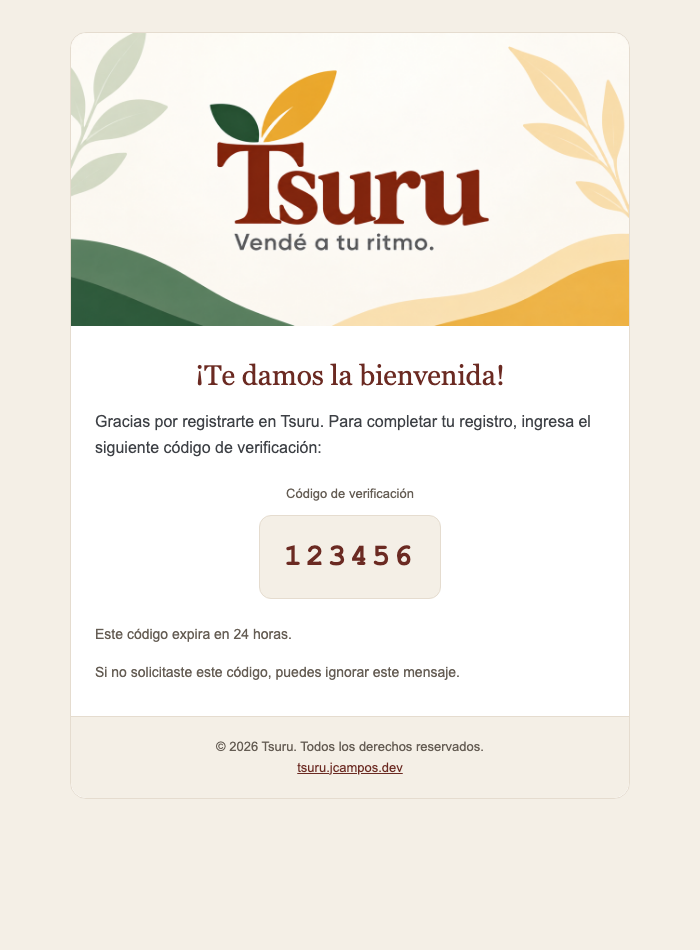
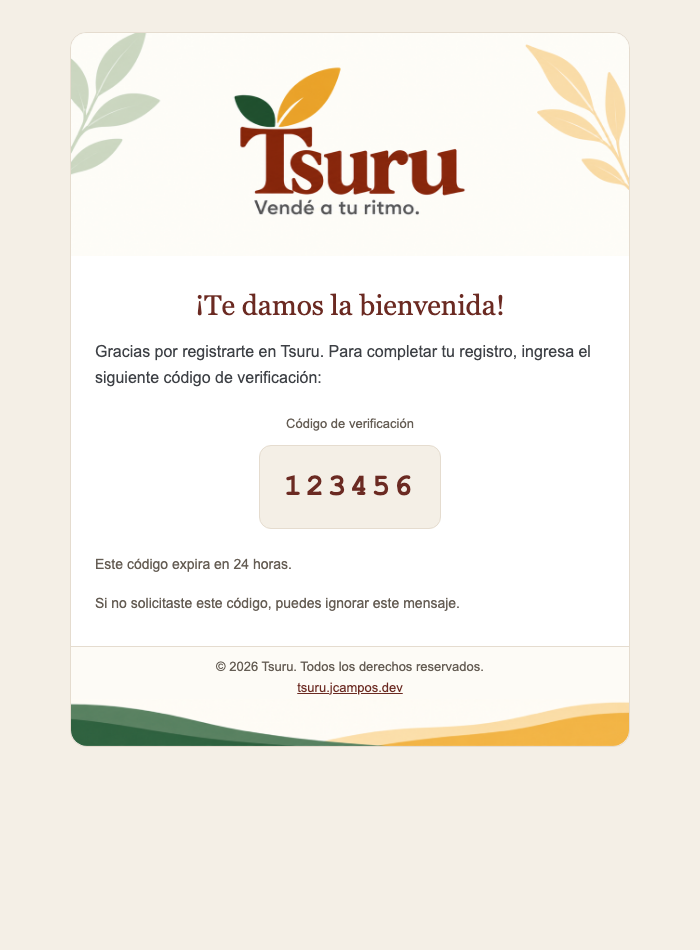
Document approved email theme and verified dev publication

diff --git a/docs/qa/email-branding/verification-dark-preview.html b/docs/qa/email-branding/verification-dark-preview.html
@@ -1,0 +1,43 @@
+<!DOCTYPE html>
+<html lang="es">
+<head>
+  <meta charset="utf-8" />
+  <meta name="viewport" content="width=device-width,initial-scale=1" />
+  <meta name="color-scheme" content="light" />
+  <meta name="supported-color-schemes" content="light" />
+  <title>Dark preview — Tsuru — ¡Te damos la bienvenida!</title>
+</head>
+<body style="margin:0;padding:0;background-color:#151B17;font-family:Arial,Helvetica,sans-serif;color:#EEE9DE;-webkit-text-size-adjust:100%;">
+  <table role="presentation" width="100%" cellpadding="0" cellspacing="0" border="0" bgcolor="#151B17" style="background-color:#151B17;">
+    <tr><td align="center" style="padding:32px 16px;">
+      <!--[if mso]><table role="presentation" width="560" align="center"><tr><td><![endif]-->
+      <table role="presentation" width="100%" cellpadding="0" cellspacing="0" border="0" align="center" bgcolor="#202621" style="width:100%;max-width:560px;background-color:#202621;border:1px solid #465047;border-radius:16px;">
+        <tr><td align="center" bgcolor="#151B17" style="padding:0;background-color:#151B17;border-radius:16px 16px 0 0;">
+          <a href="https://tsuru.jcampos.dev" style="text-decoration:none;color:#F4EFE6;"><img src="../../brand/email-previews/email-header-dark.png" width="560" height="224" alt="Tsuru — Vendé a tu ritmo." style="display:block;width:100%;max-width:560px;height:auto;margin:0 auto;border:0;border-radius:16px 16px 0 0;color:#F4EFE6;font-size:20px;" /></a>
+        </td></tr>
+        <tr><td align="center" style="padding:32px 24px 16px;text-align:center;">
+          <h1 style="margin:0;font-family:Georgia,'Times New Roman',serif;font-size:28px;font-weight:normal;line-height:1.25;color:#F4EFE6;">¡Te damos la bienvenida!</h1>
+        </td></tr>
+        <tr><td style="padding:0 24px 32px;font-size:16px;line-height:1.6;color:#EEE9DE;"><p style="margin:0 0 16px;">Gracias por registrarte en Tsuru. Para completar tu registro, ingresa el siguiente código de verificación:</p><table role="presentation" width="100%" cellpadding="0" cellspacing="0" border="0" style="margin:24px 0;">
+  <tr><td align="center" style="text-align:center;">
+    <p style="margin:0 0 10px;font-size:13px;color:#C3C5B8;">Código de verificación</p>
+    <table role="presentation" align="center" cellpadding="0" cellspacing="0" border="0" style="margin:0 auto;max-width:100%;">
+      <tr><td align="center" bgcolor="#151B17" style="padding:20px 24px;background-color:#151B17;border:1px solid #465047;border-radius:12px;text-align:center;">
+        <span style="font-family:'Courier New',monospace;font-size:30px;line-height:1.4;font-weight:bold;color:#F4EFE6;letter-spacing:4px;overflow-wrap:anywhere;word-break:break-word;">123456</span>
+      </td></tr>
+    </table>
+  </td></tr>
+</table><p style="margin:16px 0 0;font-size:14px;line-height:1.6;color:#C3C5B8;">Este código expira en 24 horas.</p><p style="margin:16px 0 0;font-size:14px;line-height:1.6;color:#C3C5B8;">Si no solicitaste este código, puedes ignorar este mensaje.</p></td></tr>
+        <tr><td align="center" bgcolor="#202621" style="padding:10px 24px 0;background-color:#202621;border-top:1px solid #465047;text-align:center;">
+          <p style="margin:0;font-size:13px;line-height:1.6;color:#C3C5B8;">© 2026 Tsuru. Todos los derechos reservados.</p>
+          <a href="https://tsuru.jcampos.dev" style="font-size:13px;line-height:1.6;color:#F4EFE6;text-decoration:underline;">tsuru.jcampos.dev</a>
+        </td></tr>
+        <tr><td align="center" style="padding:0;font-size:0;line-height:0;border-radius:0 0 16px 16px;">
+          <img src="../../brand/email-previews/email-footer-waves-dark.png" width="560" height="48" alt="" role="presentation" style="display:block;width:100%;max-width:560px;height:auto;border:0;border-radius:0 0 16px 16px;" />
+        </td></tr>
+      </table>
+      <!--[if mso]></td></tr></table><![endif]-->
+    </td></tr>
+  </table>
+</body>
+</html>

diff --git a/docs/brand/email-theme.css b/docs/brand/email-theme.css
@@ -1,0 +1,37 @@
+:root { color-scheme: light dark; supported-color-schemes: light dark; }
+@media (prefers-color-scheme: dark) {
+  .ts-bg-outer { background-color: #151B17 !important; }
+  .ts-bg-surface { background-color: #202621 !important; }
+  .ts-bg-footer { background-color: #202621 !important; }
+  .ts-bg-danger { background-color: #402723 !important; }
+  .ts-bg-success { background-color: #213B2B !important; }
+  .ts-bg-warning { background-color: #40351F !important; }
+  .ts-bg-info { background-color: #26343C !important; }
+  .ts-fg { color: #EEE9DE !important; }
+  .ts-primary { color: #F4EFE6 !important; }
+  .ts-muted { color: #C3C5B8 !important; }
+  .ts-danger { color: #FFB4A9 !important; }
+  .ts-success { color: #A2D7AE !important; }
+  .ts-warning { color: #F0CE83 !important; }
+  .ts-info { color: #BFCDD7 !important; }
+  .ts-border { border-color: #465047 !important; }
+  .ts-art-light { display: none !important; max-height: 0 !important; overflow: hidden !important; }
+  .ts-art-dark { display: block !important; max-height: none !important; overflow: hidden !important; height: auto !important; }
+}
+[data-ogsc] .ts-bg-outer { background-color: #151B17 !important; }
+[data-ogsc] .ts-bg-surface { background-color: #202621 !important; }
+[data-ogsc] .ts-bg-footer { background-color: #202621 !important; }
+[data-ogsc] .ts-bg-danger { background-color: #402723 !important; }
+[data-ogsc] .ts-bg-success { background-color: #213B2B !important; }
+[data-ogsc] .ts-bg-warning { background-color: #40351F !important; }
+[data-ogsc] .ts-bg-info { background-color: #26343C !important; }
+[data-ogsc] .ts-fg { color: #EEE9DE !important; }
+[data-ogsc] .ts-primary { color: #F4EFE6 !important; }
+[data-ogsc] .ts-muted { color: #C3C5B8 !important; }
+[data-ogsc] .ts-danger { color: #FFB4A9 !important; }
+[data-ogsc] .ts-success { color: #A2D7AE !important; }
+[data-ogsc] .ts-warning { color: #F0CE83 !important; }
+[data-ogsc] .ts-info { color: #BFCDD7 !important; }
+[data-ogsc] .ts-border { border-color: #465047 !important; }
+[data-ogsc] .ts-art-light { display: none !important; max-height: 0 !important; overflow: hidden !important; }
+[data-ogsc] .ts-art-dark { display: block !important; max-height: none !important; overflow: hidden !important; height: auto !important; }

diff --git a/scripts/sync-email-theme.py b/scripts/sync-email-theme.py
@@ -1,0 +1,132 @@
+#!/usr/bin/env python3
+"""Sync the shared email theme into independently deployed services and SES HTML."""
+from pathlib import Path
+import json
+
+ROOT = Path(__file__).resolve().parents[1]
+css = (ROOT / 'docs/brand/email-theme.css').read_text()
+rules = json.loads((ROOT / 'docs/brand/email-theme.json').read_text())
+python_source = '''"""Generated by scripts/sync-email-theme.py; keep light-mode inline fallbacks."""
+import re
+
+CSS = __CSS__
+RULES = __RULES__
+ARTWORK = {
+    'email-header.png': 'email-header-dark.png',
+    'email-footer-waves-compact.png': 'email-footer-waves-dark.png',
+}
+
+
+def _classes(tag):
+    style = re.search(r'\\bstyle="([^"]*)"', tag, re.I)
+    if not style:
+        return tag
+    declarations = dict((key.strip().lower(), value.strip().lower())
+                        for key, value in re.findall(r'([\\w-]+)\\s*:\\s*([^;]+)', style.group(1)))
+    classes = []
+    for prop, values in RULES.items():
+        value = declarations.get(prop)
+        if value in values:
+            classes.append(values[value][0])
+    if any(key.startswith('border') and ('#e5dccf' in value or '#f4efe6' in value)
+           for key, value in declarations.items()):
+        classes.append('ts-border')
+    if not classes:
+        return tag
+    existing = re.search(r'\\bclass="([^"]*)"', tag, re.I)
+    if existing:
+        merged = list(dict.fromkeys(existing.group(1).split() + classes))
+        return tag[:existing.start(1)] + ' '.join(merged) + tag[existing.end(1):]
+    return re.sub(r'^(<[^\\s>]+)', lambda m: m.group(1) + ' class="' + ' '.join(classes) + '"', tag)
+
+
+def _artwork(tag):
+    if not re.match(r'<img\\b', tag, re.I):
+        return tag
+    for light, dark in ARTWORK.items():
+        if '/' + light not in tag:
+            continue
+        light_tag = re.sub(r'\\bclass="([^"]*)"', lambda m: 'class="' + m.group(1) + ' ts-art-light"', tag) if re.search(r'\\bclass="', tag) else tag.replace('<img', '<img class="ts-art-light"', 1)
+        dark_tag = tag.replace('/' + light, '/' + dark)
+        dark_tag = re.sub(r'\\bclass="([^"]*)"', lambda m: 'class="' + m.group(1) + ' ts-art-dark"', dark_tag) if re.search(r'\\bclass="', dark_tag) else dark_tag.replace('<img', '<img class="ts-art-dark"', 1)
+        dark_tag = dark_tag.replace('display:block;', 'display:none;').replace('display: block;', 'display:none;')
+        dark_tag = dark_tag.replace('style="', 'style="max-height:0;overflow:hidden;mso-hide:all;', 1)
+        return light_tag + dark_tag
+    return tag
+
+
+def apply_email_theme(html):
+    """Add progressive dark-mode support; content and light inline styles stay intact."""
+    if 'id="tsuru-email-theme"' in html:
+        return html
+    html = re.sub(r'(<meta\\s+name="(?:color-scheme|supported-color-schemes)"\\s+content=")light("\\s*/?>)',
+                  r'\\1light dark\\2', html, flags=re.I)
+    html = re.sub(r'<[a-z][^>]*>', lambda m: _artwork(_classes(m.group(0))), html, flags=re.I)
+    return html.replace('</head>', '<style id="tsuru-email-theme">\\n' + CSS + '</style>\\n</head>', 1)
+'''.replace('__CSS__', repr(css)).replace('__RULES__', repr(rules))
+for dest in ['be/sales-be/shared/jbiller_common/hacienda/templates/email_theme.py',
+             'be/store-be/app/services/email_theme.py']:
+    (ROOT / dest).write_text(python_source)
+
+ts_source = '''// Generated by scripts/sync-email-theme.py; keep light-mode inline fallbacks.
+const CSS = __CSS__;
+const RULES: Record<string, Record<string, [string, string]>> = __RULES__;
+const ARTWORK: Record<string, string> = {
+  'email-header.png': 'email-header-dark.png',
+  'email-footer-waves-compact.png': 'email-footer-waves-dark.png',
+};
+
+function themeTag(tag: string): string {
+  const style = tag.match(/\\bstyle="([^"]*)"/i)?.[1];
+  const classes: string[] = [];
+  if (style) {
+    const declarations: Record<string, string> = {};
+    for (const match of Array.from(style.matchAll(/([\\w-]+)\\s*:\\s*([^;]+)/g))) {
+      declarations[match[1].trim().toLowerCase()] = match[2].trim().toLowerCase();
+    }
+    for (const [prop, values] of Object.entries(RULES)) {
+      const rule = values[declarations[prop]];
+      if (rule) classes.push(rule[0]);
+    }
+    if (Object.entries(declarations).some(([key, value]) => key.startsWith('border') && /#e5dccf|#f4efe6/.test(value))) classes.push('ts-border');
+    if (classes.length) {
+      if (/\\bclass="/i.test(tag)) tag = tag.replace(/\\bclass="([^"]*)"/i, (_, value: string) => `class="${Array.from(new Set([...value.split(/\\s+/), ...classes])).join(' ')}"`);
+      else tag = tag.replace(/^(<[^\\s>]+)/, `$1 class="${classes.join(' ')}"`);
+    }
+  }
+  if (!/^<img\\b/i.test(tag)) return tag;
+  for (const [light, dark] of Object.entries(ARTWORK)) {
+    if (!tag.includes('/' + light)) continue;
+    const addClass = (image: string, name: string): string => /\\bclass="/i.test(image)
+      ? image.replace(/\\bclass="([^"]*)"/i, (_, value: string) => `class="${value} ${name}"`)
+      : image.replace(/^(<img)/i, `$1 class="${name}"`);
+    const lightTag = addClass(tag, 'ts-art-light');
+    const darkTag = addClass(tag.replace('/' + light, '/' + dark), 'ts-art-dark')
+      .replace(/display:\\s*block;/, 'display:none;')
+      .replace('style="', 'style="max-height:0;overflow:hidden;mso-hide:all;');
+    return lightTag + darkTag;
+  }
+  return tag;
+}
+
+export function applyEmailTheme(html: string): string {
+  if (html.includes('id="tsuru-email-theme"')) return html;
+  return html.replace(/(<meta\\s+name="(?:color-scheme|supported-color-schemes)"\\s+content=")light("\\s*\\/?>)/gi, '$1light dark$2')
+    .replace(/<[a-z][^>]*>/gi, match => themeTag(match))
+    .replace('</head>', `<style id="tsuru-email-theme">\\n${CSS}</style>\\n</head>`);
+}
+'''.replace('__CSS__', json.dumps(css)).replace('__RULES__', json.dumps(rules))
+(ROOT / 'be/management-be/src/templates/emailTheme.ts').write_text(ts_source)
+
+# Rebuild static Cognito HTML from its light fallback, so regeneration is idempotent.
+namespace = {}
+exec(compile(python_source, '<email_theme>', 'exec'), namespace)
+import re
+for path in (ROOT / 'be/cognito-templates/ses/templates').glob('*.html'):
+    html = path.read_text()
+    html = re.sub(r'<style id="tsuru-email-theme">.*?</style>\s*', '', html, flags=re.S)
+    html = re.sub(r'<img[^>]*class="[^"]*ts-art-dark[^"]*"[^>]*>', '', html)
+    html = re.sub(r' class="ts-[^"]*"', '', html)
+    html = html.replace('content="light dark"', 'content="light"')
+    path.write_text(namespace['apply_email_theme'](html))
+print('Synchronized light/dark styles, artwork switching and Cognito templates')

diff --git a/docs/brand/tsuru-email-artwork-2026-10-07.md b/docs/brand/tsuru-email-artwork-2026-10-07.md
@@ -1,0 +1,41 @@
+# Tsuru email artwork
+
+The email layout uses two dedicated assets, while the landing Open Graph social card remains unchanged.
+
+- Header: `fe/landing/public/brand/email-header.png` (1200×480), Tsuru logo, current slogan aligned beneath the T, and botanical corner leaves. No waves.
+- Footer: `fe/landing/public/brand/email-footer-waves-compact.png` (1200×102), decorative green and gold waves only, with empty alternative text in emails.
+- Used by all localized Cognito emails, management account/invitation emails, invoice notification emails, and delivery reports.
+- Images use responsive widths and explicit dimensions inside presentation tables. Verification code alignment is retained.
+
+## Artwork provenance
+
+Edited from `fe/landing/public/brand/social-card.png` using the built-in image generation tool. Final exports were resized for their email slots.
+
+Header prompt: Edit the provided Tsuru social card into an email header. Preserve the exact Tsuru wordmark, its leaves and “Vendé a tu ritmo.” aligned beneath the T, with the pale sage and golden corner sprigs. Remove all waves; retain only logo, slogan and leaves on warm cream, with breathing room and no new elements.
+
+Footer prompt: Edit the provided Tsuru social card into a shallow decorative email footer. Retain only organic layered green waves from the lower left and golden waves from the lower right, meeting softly near the middle. Clean cream upper edge; remove logo, text, leaves and sprigs. Same illustration palette and style, with no new decoration.
+
+Compact footer revision: `fe/landing/public/brand/email-footer-waves-compact.png` removes the empty upper band and uses natural image proportions. Edited with the built-in image tool, then trimmed the generated outer padding and exported proportionally. Prompt: preserve the wave curves, colors and thickness; remove only the empty cream above them, without squeezing or flattening the artwork.
+
+Dark artwork (now connected to all outbound templates; the HTML file records the initial concept): `docs/brand/email-previews/email-header-dark.png`, `docs/brand/email-previews/email-footer-waves-dark.png`, and `docs/qa/email-branding/verification-dark-preview.html`.
+Built-in image tool prompts: preserve header composition, exact wordmark and slogan, botanical leaves and wave geometry; replace cream background with green-charcoal #202621 and reverse the logo/slogan to warm cream. Keep the green/gold illustration colors. Crop generated outer padding and export proportionally. The preview uses charcoal surfaces, warm cream text, muted sage secondary text and a darker code inset.
+
+## Shared email pattern implementation
+
+`docs/brand/email-theme.css` and `docs/brand/email-theme.json` define the common light/dark rules. `scripts/sync-email-theme.py` copies the theme helpers into the management, sales and store repositories and updates static Cognito templates idempotently. Management generators and the Hacienda notification renderer apply the helper to their final escaped HTML. Delivery reports use the same header, compact footer and theme.
+
+The dark assets are published at `fe/landing/public/brand/email-header-dark.png` and `fe/landing/public/brand/email-footer-waves-dark.png`. Light styles remain inline fallbacks; dark mode uses a media query and Outlook.com's dark-mode selector. Actual dark-mode behavior depends on the receiving email client.
+
+Validated 26 render variants (9 management, 8 Cognito, 8 Hacienda issuer/receiver status variants and 1 delivery report) at 375px and 600px in both light and dark modes. Artwork switching, natural wave proportions, code centering, horizontal fit, placeholders, document content and attachment links were checked. Twelve targeted renderer/theme tests passed. No email was sent during preview validation. The user approved publication after reviewing mobile and desktop variants. Deployment verification is recorded below.
+
+## Publication verification
+
+Published to the SSM-selected dev environment in account 947999370977 on 2026-10-07 through the repositories' GitHub workflows. No local Docker deployment was used.
+
+- Landing artwork: [run 37687363358](https://github.com/chepelcr/tsuru-landing/actions/runs/37687363358). All three newly hosted PNGs match their approved local files byte for byte.
+- Account and invitation emails: [run 37687792109](https://github.com/chepelcr/tsuru-management-be/actions/runs/37687792109). The deployed management Lambda is active with updated code.
+- Cognito: [run 37687801140](https://github.com/chepelcr/tsuru-cognito-templates/actions/runs/37687801140). All eight SES templates match source exactly; the cache revision matches the template hash. Both user pools retain the custom email trigger. All six CustomMessage triggers return the approved HTML in Spanish and English.
+- Hacienda: [run 37687796803](https://github.com/chepelcr/tsuru-sales-be/actions/runs/37687796803). The notification Lambda is active with updated code; all ten sales services pass their warmup checks.
+- Delivery reports: [run 37687808138](https://github.com/chepelcr/tsuru-store-be/actions/runs/37687808138). The deployed Lambda is active with updated code and passes its warmup check.
+
+The Spanish and English landing pages still advertise the branded social card through Open Graph and Twitter metadata. Live CustomMessage checks only construct email HTML; no email was sent. No database migration is required for this email-layout publication.
